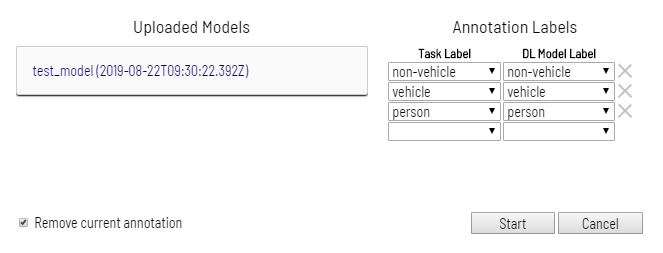
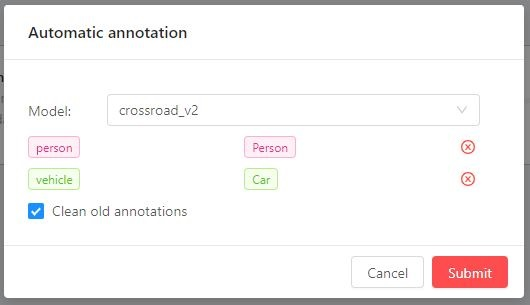
Updating the Auto Annotation section of the CVAT User Guide (#996)

Changed region(s): [[0.0, 0.0, 1.0, 1.0], [0.6642, 0.083, 0.8755, 0.1383]]

diff --git a/cvat/apps/documentation/user_guide.md b/cvat/apps/documentation/user_guide.md
@@ -31,7 +31,7 @@
     - [Points in annotation mode](#points-in-annotation-mode)
     - [Linear interpolation with one point](#linear-interpolation-with-one-point)
   - [Annotation with Auto Segmentation](#annotation-with-auto-segmentation)
-  - [Auto annotation](#auto-annotation)
+  - [Automatic annotation](#auto-annotation)
   - [Shape grouping](#shape-grouping)
   - [Filter](#filter)
   - [Analytics](#analytics)
@@ -1078,50 +1078,47 @@ a shape is created and you can work with it as a polygon.
 
 ![](static/documentation/images/gif009_DETRAC.gif)
 
-## Auto annotation
+## Automatic annotation
 
-1.  First you need to upload deep learning (DL) models using model manager.
-    Only models in OpenVINO™ toolkit format are supported.
-    If you would like to annotate a task with a custom model please convert it
-    to the intermediate representation (IR) format via the model optimizer tool.
-    See [OpenVINO documentation](https://software.intel.com/en-us/articles/OpenVINO-InferEngine) for details.
+Automatic Annotation is used for creating preliminary annotations. 
+To use Automatic Annotation you need a DL model. You can use primary models or models uploaded by a user. 
+You can find the list of available models in the ``Models`` section.
 
-    ![](static/documentation/images/image099.jpg)
+1.  To launch automatic annotation, you should open the dashboard and find a task which you want to annotate. 
+    Then click the ``Actions`` button and choose option ``Automatic Annotation`` from the dropdown menu.
 
-1.  Enter model name, and select model file using "Select files" button. To annotate a task with a custom model
-    you need to prepare 4 files:
-    - ``Model config`` (*.xml) - a text file with network configuration. 
-    - ``Model weights`` (*.bin) - a binary file with trained weights. 
-    - ``Label map`` (*.json) - a simple json file with label_map dictionary like an object with 
-    string values for label numbers.
-    - ``Interpretation script`` (*.py) - a file used to convert net output layer to a predefined structure 
-    which can be processed by CVAT. 
-    More about creating model files can be found [here](/cvat/apps/auto_annotation).
+    ![](static/documentation/images/image119_DETRAC.jpg)
 
-    ![](static/documentation/images/image104.jpg)
-
-1.  After downloading a model you have to  create a task or find an already created one and
-    click ``Run Auto Annotation`` button.
-
-    ![](static/documentation/images/image119.jpg)
-
-1.  In dialog window select a model you need. If it's necessary select the ``Delete current annotation`` checkbox.
-    Adjust the labels so that the task labels will correspond to the labels of the DL model.
-    Click ``Start`` to begin the auto annotatiton process.
+1.  In the dialog window select a model you need. DL models are created for specific labels, e.g. 
+    the Crossroad model was taught using footage from cameras located above the highway and it is best to 
+    use this model for the tasks with similar camera angles. 
+    If it's necessary select the ``Clean old annotations`` checkbox. 
+    Adjust the labels so that the task labels will correspond to the labels of the DL model. 
+    For example, let’s consider a task where you have to annotate labels “car” and “person”. 
+    You should connect the “person” label from the model to the “person” label in the task. 
+    As for the “car” label, you should choose the most fitting label available in the model - the “vehicle” label. 
+    The task requires to annotate cars only and choosing the “vehicle” label implies annotation of all vehicles, 
+    in this case using auto annotation will help you complete the task faster. 
+    Click ``Submit`` to begin the automatic annotation process.
 
     ![](static/documentation/images/image120.jpg)
 
-1.  At runtime, you can see percentage of completion. You can also cancel the auto annotation
-    process by clicking ``Cancel Auto Annotation``
+1.  At runtime, you can see the percentage of completion.
 
-    ![](static/documentation/images/image121.jpg)
+    ![](static/documentation/images/image121_DETRAC.jpg)
 
 1.  As a result, you will get an annotation with separate bounding boxes (or other shapes)
 
     ![](static/documentation/images/gif014_DETRAC.gif)
 
-1.  Separated bounding boxes can be edited by removing false positives, adding unlabeled objects, and
-    merging into tracks using ``Merge Shape``
+1.  Separated bounding boxes can be edited by removing false positives, adding unlabeled objects and
+    merging into tracks using ``ReID merge`` function. Click the ``ReID merge`` button in the menu. 
+    You can use the default settings (for more information click [here](cvat/apps/reid/README.md)). 
+    To launch the merging process click ``Merge``. Each frame of the track will be a key frame. 
+
+    ![](static/documentation/images/image133.jpg)
+
+1.  You can remove false positives and edit tracks using ``Split`` and ``Merge`` functions.
 
     ![](static/documentation/images/gif015_DETRAC.gif)
 
@@ -1216,7 +1213,7 @@ If your CVAT instance is created with analytics support, you can press the
 "analytics" button in dashboard, a new tab with analytics and journals will
 be opened.
 
-![](static/documentation/images/image113.jpg)
+![](static/documentation/images/image113_DETRAC.jpg)
 
 It allows you to see how much working time every user spend on each task and how much they did, over any time range.
 
